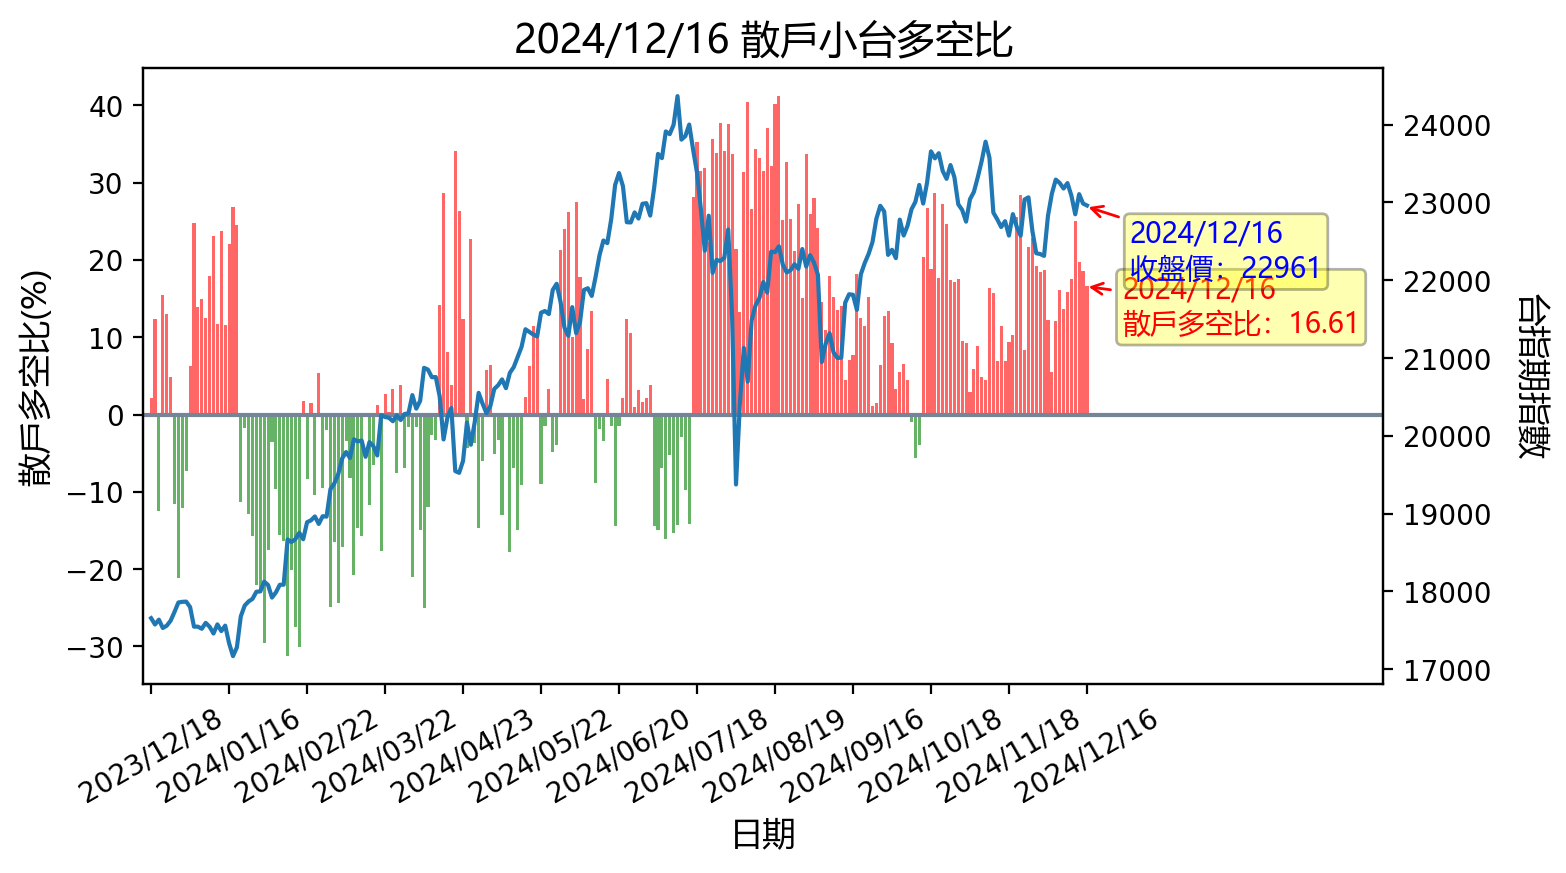
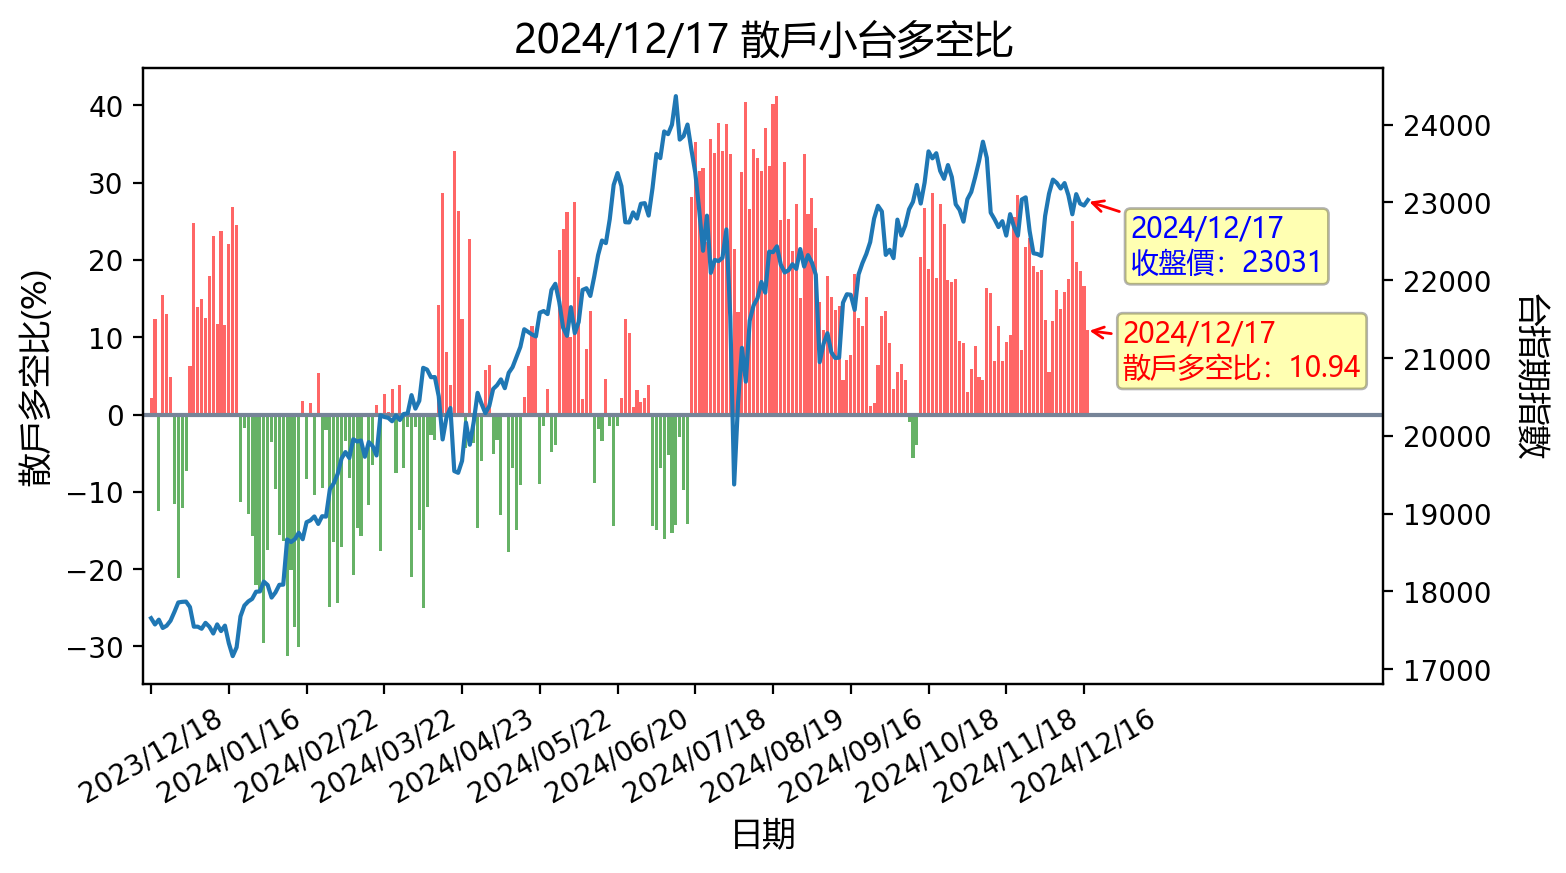
更新時間: Tue Dec 17 16:39:30 CST 2024

diff --git a/README.md b/README.md
@@ -1,12 +1,12 @@
-## 20241216 台指期「預估換倉成本」
+## 20241217 台指期「預估換倉成本」
 ![](images/txfcost.png)
 
-## 20241216 台指期「散戶小台多空比」
+## 20241217 台指期「散戶小台多空比」
 ![](images/bbiri.png)
 
-## 20241216 台指選擇權「Put/Call Ratios」
+## 20241217 台指選擇權「Put/Call Ratios」
 ![](images/pcratio.png)
 
-## 20241216 台指期「大額交易人」
+## 20241217 台指期「大額交易人」
 ![](images/blocktrade.png)
 
